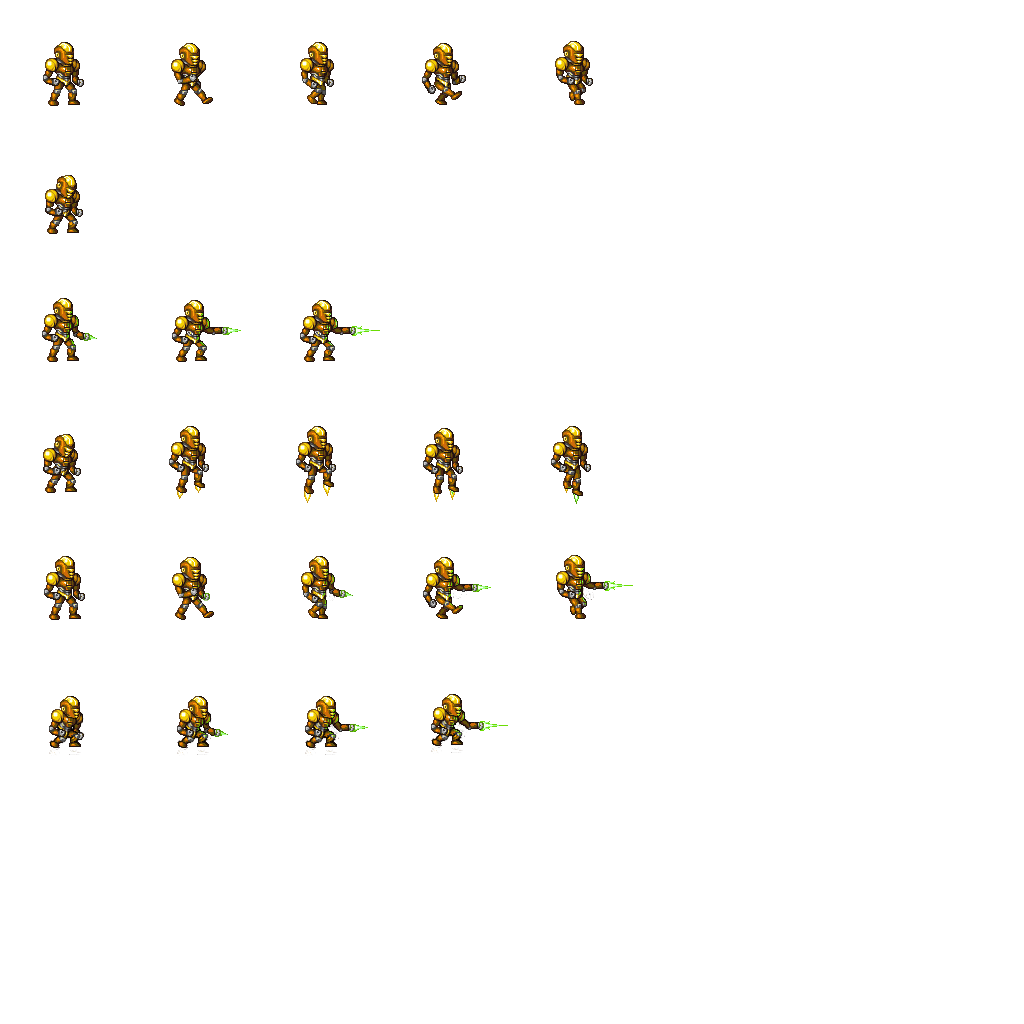
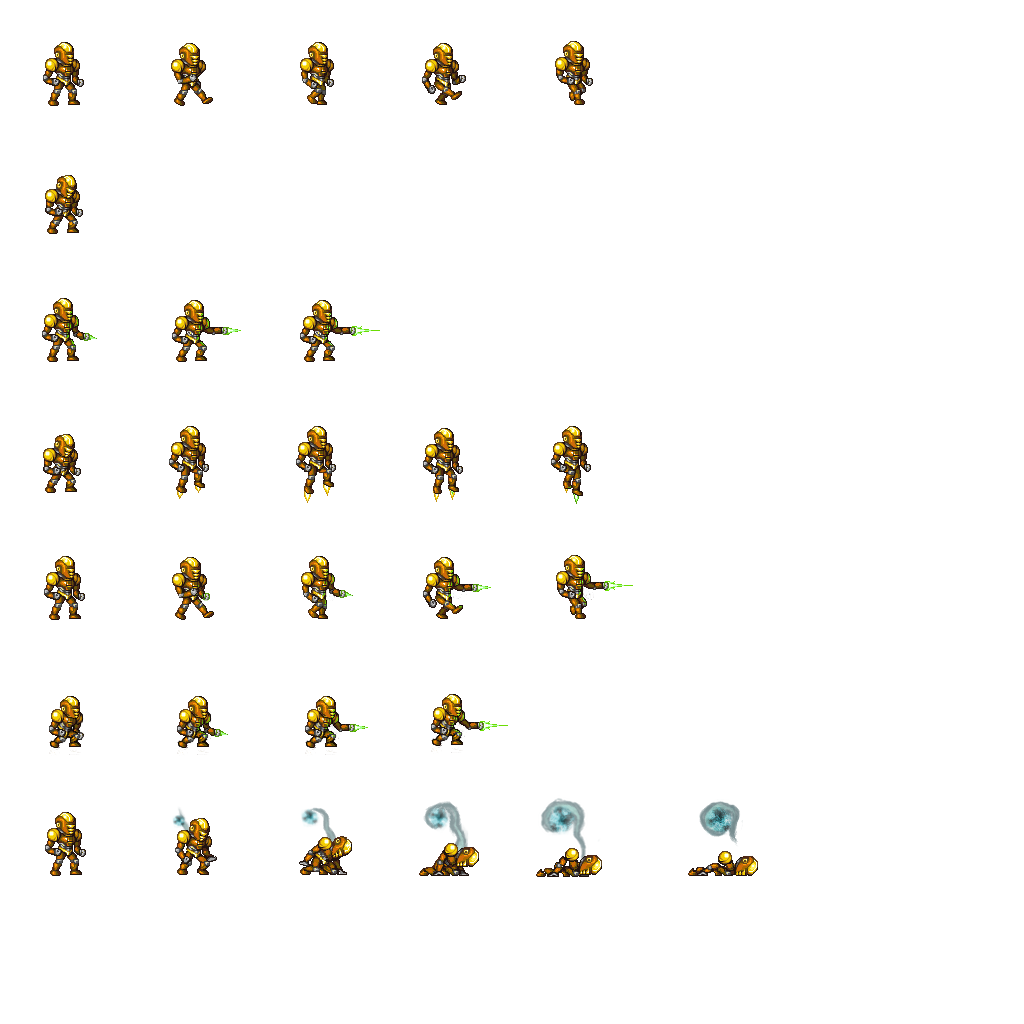
player death anim

diff --git a/src/game/Player.cpp b/src/game/Player.cpp
@@ -7,6 +7,7 @@
 #include "SoundCache.h"
 #include "Ui.h"
 #include "ExitPoint.h"
+#include "Collectible.h"
 
 const float energy_cost_jump = 0.f;
 const float energy_recharge_rate = 5.f; // units per second
@@ -54,8 +55,7 @@ Player::Player()
 	jumpSound = soundCache["ambient_techno1.ogg"];
 	dieSound  = soundCache["xeonDies.ogg"];
 	currentStart = NULL;
-	
-
+	dying = false;
 
 	init();
 }
@@ -63,6 +63,7 @@ Player::Player()
 void Player::init() {
 	time = 0.f;
 	last_shoot_time = -100.f;
+	dying = false;
 
 	energy = energy_max = 100.f;
 	
@@ -204,13 +205,13 @@ void Player::update(float dt) {
 		energy = std::max(energy, 10.f);
 
 	// left/right move
-	if (input.direction() == FACING_LEFT) {
+	if (!dying && input.direction() == FACING_LEFT) {
 		move_direction = FACING_LEFT;
 		speed_x -= speed_delta*dt;
 		if (speed_x < -speed_max) speed_x = -speed_max;
 		facing_direction = move_direction;
 	}
-	else if (input.direction() == FACING_RIGHT) {
+	else if (!dying && input.direction() == FACING_RIGHT) {
 		move_direction = FACING_RIGHT;
 		speed_x += speed_delta*dt;
 		if (speed_x > speed_max) speed_x = speed_max;
@@ -226,13 +227,13 @@ void Player::update(float dt) {
 		walking = true;
 	}
 
-	if (input.jumping())
+	if (!dying && input.jumping())
 		jump(dt);
 
-	if (input.shooting())
+	if (!dying && input.shooting())
 		shoot();
 	
-	if(input.crouching())
+	if(!dying && input.crouching())
 		crouched = true;
 	else 
 		crouched = false;
@@ -249,48 +250,50 @@ void Player::update(float dt) {
 
 	// Compute animations:
 
-	if(time - last_shoot_time < shoot_duration) {
-		if(walking) {
-			this->setCurrentAnimation("walkshoot");
+	if(!dying) {
+		if(time - last_shoot_time < shoot_duration) {
+			if(walking) {
+				this->setCurrentAnimation("walkshoot");
+			}
+			else if(crouched) {
+				this->setCurrentAnimation("crouchshoot");
+			}		
+			else {
+				this->setCurrentAnimation("shoot");
+			}
+		} 
+		else if (!isGrounded() && speed_y != 0)
+		{
+			if(speed_y < 0)
+				this->setCurrentAnimation("jump");
+			else
+				this->setCurrentAnimation("fall");
 		}
+		else if (speed_x != 0)
+		{
+			walking = true;
+		std:cout<< this->getCurrentAnimation()->getIsFinished();
+			if(this->getCurrentAnimation()->getIsFinished()) {
+				this->setCurrentAnimation("walk");
+			}
+		} 
 		else if(crouched) {
-			this->setCurrentAnimation("crouchshoot");
-		}		
-		else {
-			this->setCurrentAnimation("shoot");
+			this->setCurrentAnimation("crouch");
 		}
-	} 
-	else if (!isGrounded() && speed_y != 0)
-	{
-		if(speed_y < 0)
-			this->setCurrentAnimation("jump");
 		else
-			this->setCurrentAnimation("fall");
-	}
-	else if (speed_x != 0)
-	{
-		walking = true;
-	std:cout<< this->getCurrentAnimation()->getIsFinished();
-		if(this->getCurrentAnimation()->getIsFinished()) {
-			this->setCurrentAnimation("walk");
+		{
+			this->setCurrentAnimation("idle"); 
 		}
-	} 
-	else if(crouched) {
-		this->setCurrentAnimation("crouch");
-	}
-	else
-	{
-		this->setCurrentAnimation("idle"); 
-	}
 
-	updateSpriteFacing();
+		updateSpriteFacing();
 
-	if (speed_y == terminal_velocity)
-		sprite.Rotate(360.f*dt);
-	else
-		sprite.SetRotation(0);
+		if (speed_y == terminal_velocity)
+			sprite.Rotate(360.f*dt);
+		else
+			sprite.SetRotation(0);
 	
-	checkCollisions();
+		checkCollisions();
+	}
 }
 
 void Player::draw() {
@@ -338,16 +341,26 @@ void Player::die() {
 	{
 		dieSound->playSound();
 		lifes--;
-		if(lifes > 0) {
-			std::cout << "life lost. current lifes: " << lifes << std::endl;
-			init();
-		} else {
-			lifes = start_lifes;
-			ui_popupImage("images/game_over.png", bla);
-		}
+		dying = true;
+		this->setCurrentAnimation("die");
 	}
 }
 
 void Player::onDestroy() {
 	cout << "player destroyed\n";
+}
+
+void Player::onAnimationComplete(std::string anim) {
+	//cout << "EnemyWalker::onAnimationComplete(\"" << anim << "\")\n";
+	if(anim == "die") {
+		if(lifes > 0) {
+			std::cout << "life lost. current lifes: " << lifes << std::endl;
+			init();
+			CollectibleEnergyBall * ball = new CollectibleEnergyBall();
+			ball->setPos(pos_x, pos_y-30);
+		} else {
+			lifes = start_lifes;
+			ui_popupImage("images/game_over.png", bla);
+		}
+	}
 }

diff --git a/src/game/Player.h b/src/game/Player.h
@@ -18,6 +18,7 @@ public:
 	virtual void die();
 	virtual void collide(Actor & otherActor);
 	virtual void onDestroy();
+	virtual void onAnimationComplete(std::string anim);
 	
 	StartPoint * findStart();
 	
